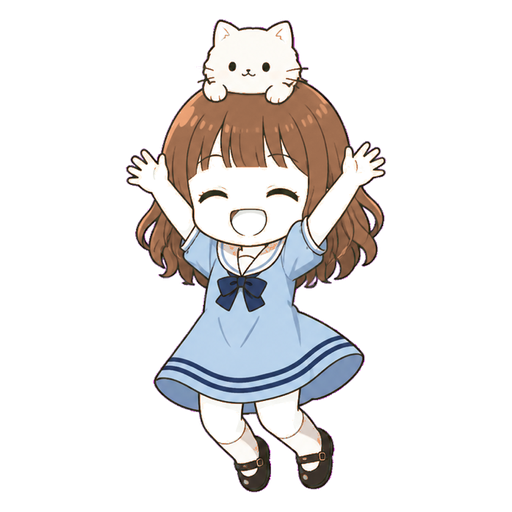
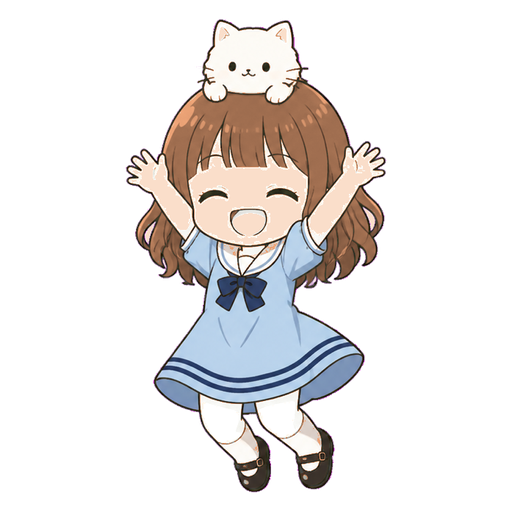
fix: paint the girl's skin, hold her still, and seat her beside the word
The repair filled every erased region with white, which left her face and arms
the colour of the page. Skin holes all start above 74% of the figure height and
sock holes below it, so one measured line tells the two apart — skin is painted,
socks stay white.

She also no longer bobs. Idle movement beside a word someone is trying to read
is a distraction, so she is still until an answer lands. That removes the last
always-running animation in the app.

She now sits inside the question card to the left of the word, passed in as a
slot so the screen keeps ownership of which mood to show.

diff --git a/src/components/MultipleChoiceCard.tsx b/src/components/MultipleChoiceCard.tsx
@@ -21,6 +21,9 @@ type Props = {
   onExclude: () => void;
   onMarkUnsure: () => void;
   unsure: boolean;
+  // Rendered beside the question. Passed in rather than built here so the
+  // screen stays the one place that knows how the last answer went.
+  mascot?: React.ReactNode;
 };
 
 // words.json stores parts of speech as "v." or "n./adj."; spell them out so the
@@ -52,6 +55,7 @@ export function MultipleChoiceCard({
   onExclude,
   onMarkUnsure,
   unsure,
+  mascot,
 }: Props) {
   const [selected, setSelected] = useState<string | null>(null);
   const [typed, setTyped] = useState('');
@@ -169,17 +173,22 @@ export function MultipleChoiceCard({
         <Pressable style={styles.soundBtn} onPress={() => speakWord(entry.word)} hitSlop={8}>
           <Image source={require('../../assets/speaker-icon.png')} style={styles.soundIcon} />
         </Pressable>
-        {mode === 'cloze' ? (
-          <>
-            <Text style={styles.modeLabel}>選出最適合填入句子的單字</Text>
-            <Text style={styles.cloze}>{blankedExample}</Text>
-          </>
-        ) : (
-          <>
-            <Text style={styles.modeLabel}>{mode === 'typing' ? '請輸入英文單字' : '選出正確答案'}</Text>
-            <Text style={styles.question}>{question}</Text>
-          </>
-        )}
+        <View style={styles.cardRow}>
+          {mascot}
+          <View style={styles.cardTextCol}>
+            {mode === 'cloze' ? (
+              <>
+                <Text style={styles.modeLabel}>選出最適合填入句子的單字</Text>
+                <Text style={styles.cloze}>{blankedExample}</Text>
+              </>
+            ) : (
+              <>
+                <Text style={styles.modeLabel}>{mode === 'typing' ? '請輸入英文單字' : '選出正確答案'}</Text>
+                <Text style={styles.question}>{question}</Text>
+              </>
+            )}
+          </View>
+        </View>
       </View>
 
       {mode === 'typing' ? (
@@ -304,8 +313,10 @@ const styles = StyleSheet.create({
   unsureBtnOn: { backgroundColor: colors.yellowInk, borderColor: colors.yellowInk },
   unsureBtnText: { color: colors.yellowInk, fontSize: 12, fontWeight: '900' },
   unsureBtnTextOn: { color: colors.surface },
+  cardRow: { flexDirection: 'row', alignItems: 'center', gap: 12 },
+  cardTextCol: { flex: 1, alignItems: 'center' },
   modeLabel: { color: colors.blue, fontSize: 13, fontWeight: '900', marginBottom: 10 },
-  question: { color: colors.ink, fontSize: 26, fontWeight: '900', textAlign: 'center', paddingHorizontal: 34 },
+  question: { color: colors.ink, fontSize: 26, fontWeight: '900', textAlign: 'center' },
   cloze: { color: colors.ink, fontSize: 20, fontWeight: '800', lineHeight: 28, textAlign: 'center' },
   options: { width: '100%', maxWidth: 760, marginTop: 16, gap: 10 },
   option: {

diff --git a/src/components/Mascot.tsx b/src/components/Mascot.tsx
@@ -16,29 +16,9 @@ type Props = {
 // arms-up artwork and the shake runs under the worried one, so the drawing and
 // the animation say the same thing.
 export function Mascot({ mood = 'idle', message, size = 128, style }: Props) {
-  const breathe = useRef(new Animated.Value(0)).current;
+  // Only reacts. An idle loop is movement in the corner of the eye while
+  // someone is trying to read a word, which is the last thing this screen needs.
   const react = useRef(new Animated.Value(0)).current;
-
-  useEffect(() => {
-    const loop = Animated.loop(
-      Animated.sequence([
-        Animated.timing(breathe, {
-          toValue: 1,
-          duration: 1700,
-          easing: Easing.inOut(Easing.sin),
-          useNativeDriver: true,
-        }),
-        Animated.timing(breathe, {
-          toValue: 0,
-          duration: 1700,
-          easing: Easing.inOut(Easing.sin),
-          useNativeDriver: true,
-        }),
-      ])
-    );
-    loop.start();
-    return () => loop.stop();
-  }, [breathe]);
 
   useEffect(() => {
     if (mood === 'idle') return;
@@ -51,7 +31,6 @@ export function Mascot({ mood = 'idle', message, size = 128, style }: Props) {
     }).start();
   }, [mood, react]);
 
-  const bob = breathe.interpolate({ inputRange: [0, 1], outputRange: [0, -6] });
   const hop = react.interpolate({ inputRange: [0, 0.25, 0.5, 0.75, 1], outputRange: [0, -30, -2, -10, 0] });
   const shake = react.interpolate({ inputRange: [0, 0.2, 0.4, 0.6, 0.8, 1], outputRange: [0, -9, 9, -6, 3, 0] });
   // Sparks fly out on a hop and are gone by the time the character lands.
@@ -59,11 +38,7 @@ export function Mascot({ mood = 'idle', message, size = 128, style }: Props) {
   const sparkFade = react.interpolate({ inputRange: [0, 0.25, 0.8], outputRange: [0, 1, 0], extrapolate: 'clamp' });
 
   const transform =
-    mood === 'happy'
-      ? [{ translateY: Animated.add(bob, hop) }]
-      : mood === 'sad'
-        ? [{ translateX: shake }, { translateY: bob }]
-        : [{ translateY: bob }];
+    mood === 'happy' ? [{ translateY: hop }] : mood === 'sad' ? [{ translateX: shake }] : [];
 
   return (
     <View style={[styles.wrap, style]}>

diff --git a/src/screens/PracticeScreen.tsx b/src/screens/PracticeScreen.tsx
@@ -252,23 +252,21 @@ export function PracticeScreen({ route }: Props) {
               )}
             </View>
           ) : (
-            <>
-              <MultipleChoiceCard
-                key={`${mode}-${current!.word}`}
-                entry={current!}
-                direction={direction}
-                mode={mode}
-                choices={choices}
-                choiceEntries={choiceEntries}
-                settings={settings}
-                onResult={handleResult}
-                onAnswered={(correct) => setMood(correct ? 'happy' : 'sad')}
-                onExclude={handleExclude}
-                onMarkUnsure={() => mark(current!, 'unsure')}
-                unsure={currentUnsure}
-              />
-              <Mascot mood={mood} message={mascotLine} size={104} style={styles.quizMascot} />
-            </>
+            <MultipleChoiceCard
+              key={`${mode}-${current!.word}`}
+              entry={current!}
+              direction={direction}
+              mode={mode}
+              choices={choices}
+              choiceEntries={choiceEntries}
+              settings={settings}
+              onResult={handleResult}
+              onAnswered={(correct) => setMood(correct ? 'happy' : 'sad')}
+              onExclude={handleExclude}
+              onMarkUnsure={() => mark(current!, 'unsure')}
+              unsure={currentUnsure}
+              mascot={<Mascot mood={mood} message={mascotLine} size={104} />}
+            />
           )}
         </ScrollView>
 
@@ -341,7 +339,6 @@ const styles = StyleSheet.create({
   modalRow: { flex: 1, flexDirection: 'row', backgroundColor: 'rgba(18,33,50,0.35)' },
   scrim: { flex: 1 },
   modalPanel: { width: '88%', maxWidth: 420, padding: 12 },
-  quizMascot: { marginTop: 22 },
   doneCard: { alignItems: 'center', paddingTop: 32, paddingHorizontal: 24 },
   doneTitle: { color: colors.ink, fontSize: 22, fontWeight: '900', textAlign: 'center', marginTop: 12 },
   doneMeta: { color: colors.muted, fontSize: 15, fontWeight: '700', marginTop: 8, textAlign: 'center' },

diff --git a/__tests__/mascot.test.tsx b/__tests__/mascot.test.tsx
@@ -41,10 +41,9 @@ it('survives every mood change without remounting', async () => {
   await unmount(tree);
 });
 
-// The breathing loop runs forever by design. If unmount did not stop it, this
-// suite would keep firing timers after Jest tears the environment down — which
-// is exactly the hang this test exists to catch.
-it('stops its idle animation when unmounted', async () => {
+// She only moves in response to an answer. An animation still running while
+// idle would fire timers forever, which once hung this whole suite.
+it('is completely still when idle, and leaves nothing running after unmount', async () => {
   const tree = await mount(<Mascot />);
   await unmount(tree);
   await act(async () => {

diff --git a/scripts/prepMascots.py b/scripts/prepMascots.py
@@ -32,9 +32,20 @@ TRANSPARENT = 8  # alpha at or below this counts as background
 OUT_SIZE = 512  # plenty for a 150pt sprite on a 3x screen
 PAD = 0.04  # breathing room around the subject, as a fraction of its size
 
+SKIN = (250, 222, 202)
+# Face, arms and hands were erased along with the background, and so were the
+# white knee socks. Measured on the source sheet, every skin hole starts above
+# 74% of the figure's height and every sock hole starts below it, so one line
+# separates "paint this skin" from "leave this white".
+SOCK_LINE = 0.74
 
-def solidify(im: Image.Image) -> Image.Image:
-    """Make the character fully opaque and the true background fully clear."""
+
+def solidify(im: Image.Image, skin: bool = False) -> Image.Image:
+    """Make the character fully opaque and the true background fully clear.
+
+    With ``skin`` set, holes the flood cannot reach are painted as skin rather
+    than left white — everything below SOCK_LINE stays white, being socks.
+    """
     im = im.convert("RGBA")
     w, h = im.size
     px = im.load()
@@ -56,12 +67,23 @@ def solidify(im: Image.Image) -> Image.Image:
                     outside[ny * w + nx] = 1
                     queue.append((nx, ny))
 
+    skin_rows = set()
+    if skin:
+        body = [y for y in range(h) if any(not outside[y * w + x] for x in range(w))]
+        if body:
+            top, bottom = body[0], body[-1]
+            cutoff = top + (bottom - top) * SOCK_LINE
+            skin_rows = {y for y in range(h) if y < cutoff}
+
     for y in range(h):
         row = y * w
         for x in range(w):
             r, g, b, a = px[x, y]
             if outside[row + x]:
                 px[x, y] = (0, 0, 0, 0)
+            elif a <= TRANSPARENT:
+                # An erased part of the character, not a colour to recover.
+                px[x, y] = (*SKIN, 255) if y in skin_rows else (255, 255, 255, 255)
             elif a < 255:
                 # Composite over white, which is what the artwork assumed.
                 blend = a / 255
@@ -139,7 +161,7 @@ def main() -> None:
     sheet_path = RAW / "chibi-girl-poses.png"
     if sheet_path.exists():
         print("girl sheet:")
-        sheet = warm_hair(solidify(Image.open(sheet_path)))
+        sheet = warm_hair(solidify(Image.open(sheet_path), skin=True))
         spans = columns_with_content(sheet)
         names = ["girl-idle", "girl-happy", "girl-sad"]
         if len(spans) != len(names):
